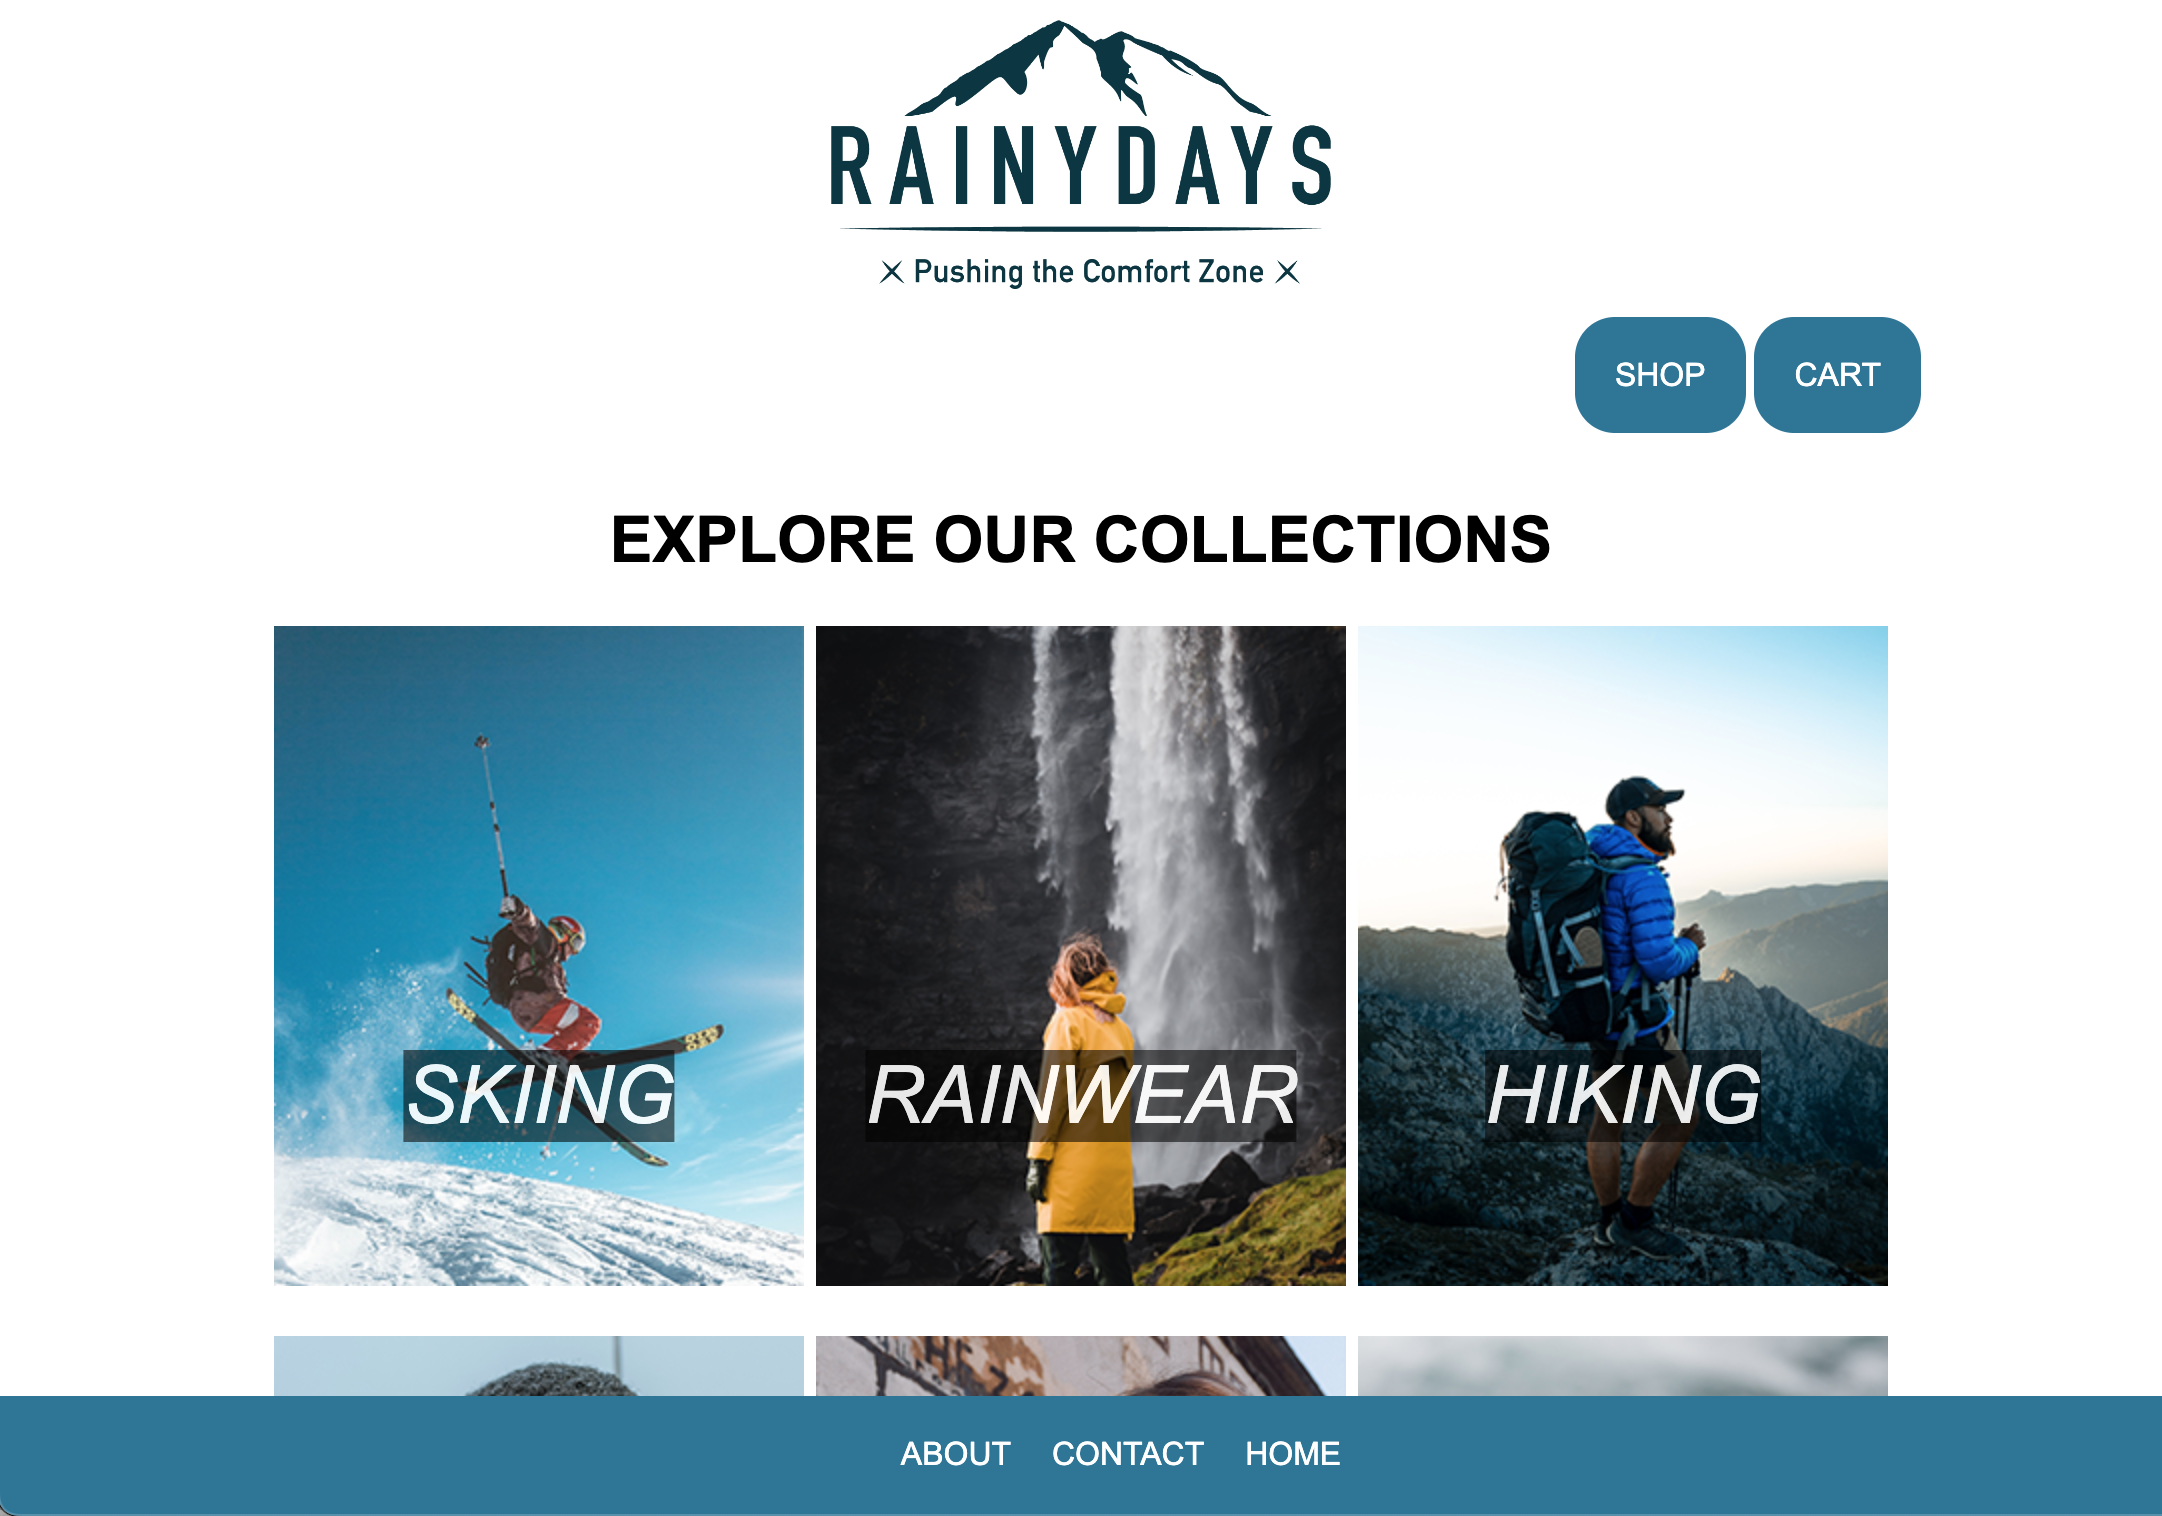
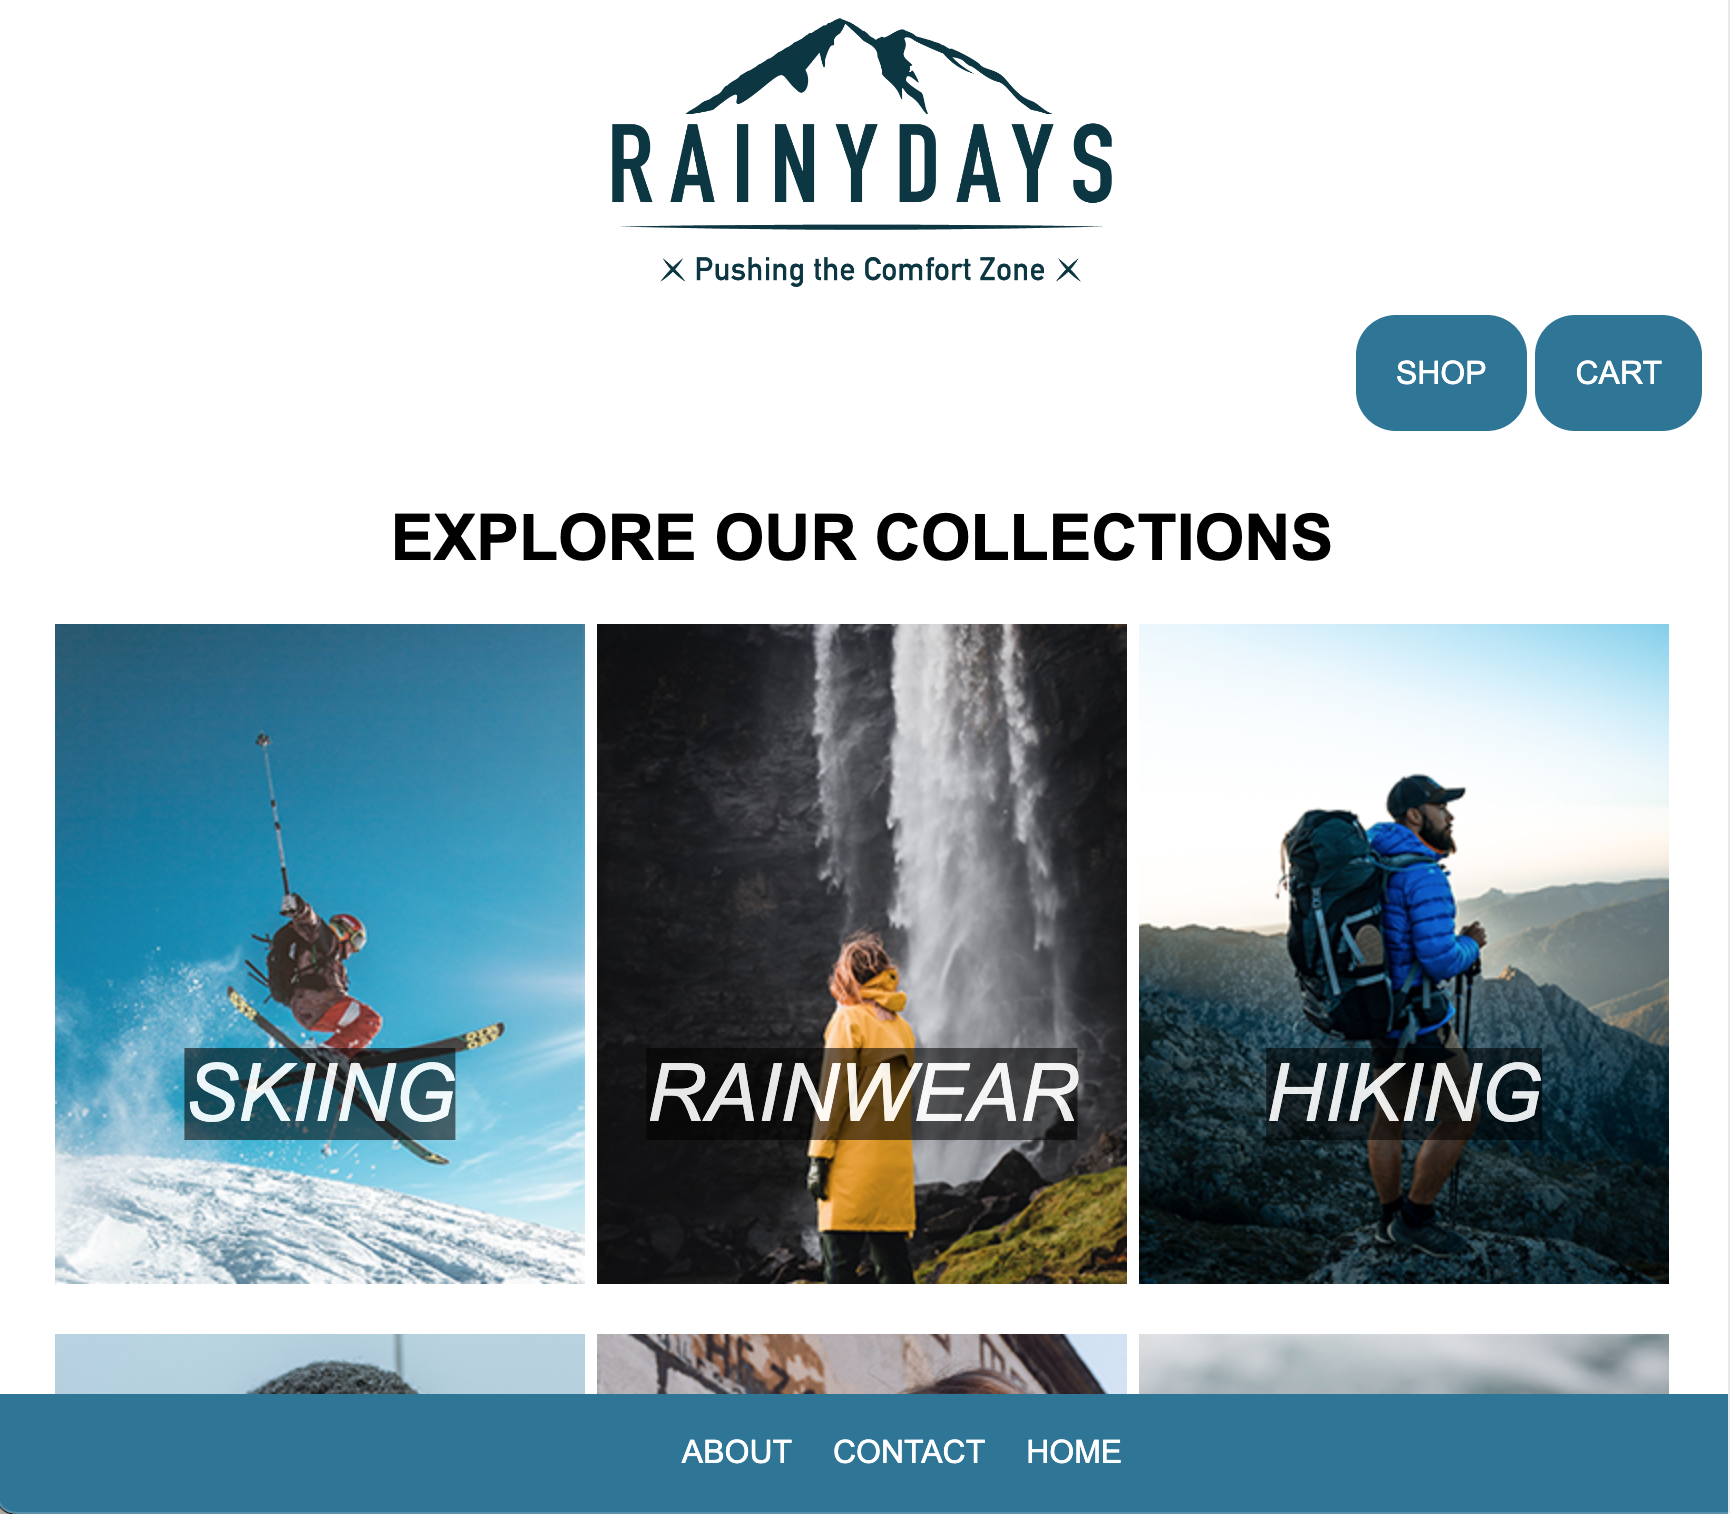
added grid, margin, padding etc

diff --git a/index.html b/index.html
@@ -9,76 +9,93 @@
     <script src="scripts/hamburger_menu.js" defer></script>
   </head>
   <body>
-
     <header>
       <div class="logoHeader">
         <a href="index.html">
-            <h1 class="logo">ONESDESIGN</h1>
+          <h1 class="logo">ONESDESIGN</h1>
         </a>
-      </div>  
-        <nav>
-          <ul class="navList">
-            <li><a href="projects.html"></a>PROJECTS</li>
-            <li><a href="about.html"></a>ABOUT</li>
-            <li><a href="contact.html"></a>CONTACT</li>
-          </ul>
-          <div class="hamburger-menu">&#9776;</div>
-        </nav>
+      </div>
+      <nav>
+        <ul class="navList">
+          <li><a href="projects.html"></a>PROJECTS</li>
+          <li><a href="about.html"></a>ABOUT</li>
+          <li><a href="contact.html"></a>CONTACT</li>
+        </ul>
+        <div class="hamburger-menu">&#9776;</div>
+      </nav>
     </header>
 
     <main>
-      <div class="container">
+      <div class="containerIndex">
         <div class="item">
           <img class="itemImage" src="images/me.jpg" alt="profile_picture" />
         </div>
         <div class="itemLight">
           <h1 class="peachTitle">ABOUT ME</h1>
-          <p class="peachParagraph">Lorem ipsum dolor sit amet, consectetur adipiscing elit,
-            sed do eiusmod tempor incididunt ut labore et dolore magna aliqua. 
-            Ut enim ad minim veniam, quis nostrud exercitation ullamco laboris 
-            nisi ut aliquip ex ea commodo consequat. Duis aute irure dolor in 
-            reprehenderit in voluptate velit esse cillum dolore eu fugiat nulla 
-            pariatur.</p>
+          <p class="peachParagraph">
+            Lorem ipsum dolor sit amet, consectetur adipiscing elit, sed do
+            eiusmod tempor incididunt ut labore et dolore magna aliqua. Ut enim
+            ad minim veniam, quis nostrud exercitation ullamco laboris nisi ut
+            aliquip ex ea commodo consequat. Duis aute irure dolor in
+            reprehenderit in voluptate velit esse cillum dolore eu fugiat nulla
+            pariatur.
+          </p>
         </div>
       </div>
 
-      <div class="container">
+      <div class="containerIndex">
         <div class="itemDark">
           <h1 class="lightTitle">TECHNIQUES</h1>
-          <p class="lightParagraph">Lorem ipsum dolor sit amet, consectetur adipiscing elit,
-            sed do eiusmod tempor incididunt ut labore et dolore magna aliqua. 
-            Ut enim ad minim veniam, quis nostrud exercitation ullamco laboris 
-            nisi ut aliquip ex ea commodo consequat. Duis aute irure dolor in 
-            reprehenderit in voluptate velit esse cillum dolore eu fugiat nulla 
-            pariatur.</p>
+          <p class="lightParagraph">
+            Lorem ipsum dolor sit amet, consectetur adipiscing elit, sed do
+            eiusmod tempor incididunt ut labore et dolore magna aliqua. Ut enim
+            ad minim veniam, quis nostrud exercitation ullamco laboris nisi ut
+            aliquip ex ea commodo consequat. Duis aute irure dolor in
+            reprehenderit in voluptate velit esse cillum dolore eu fugiat nulla
+            pariatur.
+          </p>
         </div>
         <div class="item">
-            <img class="itemImage" src="images/techniques.jpg" alt="">
+          <img class="itemImage" src="images/techniques.jpg" alt="" />
+        </div>
       </div>
 
       <div class="featured">
-
         <div class="featuredItem">
-            <img class="featuredImage" src="images/project1.png" alt="screenshot of project1">
-            <a href="">VIEW DEMO</a>
+          <img
+            class="featuredImage"
+            src="images/project1.png"
+            alt="screenshot of project1" />
+          <div class="buttonContainer">
+            <a class="button" href="">VIEW DEMO</a>
+          </div>
         </div>
 
         <div class="featuredItem">
-            <img class="featuredImage" src="images/project2.png" alt="screenshot of project2">
-            <a href="">VIEW DEMO</a>
+          <img
+            class="featuredImage"
+            src="images/project2.png"
+            alt="screenshot of project2" />
+          <div class="buttonContainer">
+            <a class="button" href="">VIEW DEMO</a>
+          </div>
         </div>
 
         <div class="featuredItem">
-            <img class="featuredImage" src="images/project3.png" alt="screenshot of project3">
-            <a href="">VIEW DEMO</a>
+          <img
+            class="featuredImage"
+            src="images/project3.png"
+            alt="screenshot of project3" />
+          <div class="buttonContainer">
+            <a class="button" href="">VIEW DEMO</a>
+          </div>
         </div>
-
       </div>
     </main>
   </body>
 </html>
 <footer>
-    <div class="footerText">
-        <p>OnesDesign</p>
-    </div>
+  <div class="footerText">
+    <p>OnesDesign</p>
+  </div>
 </footer>

diff --git a/css/utilities.css b/css/utilities.css
@@ -33,6 +33,12 @@ header li {
     flex-wrap: wrap;
 }
 
+.li {
+    list-style: none;
+    display:inline-block;
+    padding: 10px;
+}
+
 .navList {
     display: flex;
     margin: 0;
@@ -46,12 +52,61 @@ header li {
     font-size: 20px;
     margin-right: 20px;
 }
-  
-.itemImage {
-    width: 250px;
-    height: 350px;
+
+.containerIndex {
+    display: flex;
+    max-width: 800px;
+    margin: 0 auto;
 }
+
+.itemImage {
+    width: 400px;
+    height: 400px;
+}
+
+.peachTitle {
+    text-align: center;
+}
+
+.peachParagraph {
+    text-align: left;
+}
+
+.itemLight {
+    padding: 30px;
+}
+
+.itemDark {
+    padding: 30px;
+}
+
+.lightParagraph {
+    text-align: left;
+}
+
+.featured {
+    display: flex;
+    padding: 20px;
+}
+
 .featuredImage {
-    width:300px;
-    height: 300px;
+    width:100%;
+    height: auto;
+}
+
+.featuredItem {
+    text-align: center; /* Center the contents within each featuredItem */
+    max-width: 320px;
+    padding: 20px;
+}
+
+.buttonContainer {
+    margin-top: 10px; /* Add some spacing between the image and the button */
+    max-width: 100px;
+    padding: 10px;
+}
+
+.footerText {
+    padding: 20px;
+    text-align: center;
 }

diff --git a/css/theme.css b/css/theme.css
@@ -3,6 +3,7 @@
 header {
     background: rgba(160, 133, 114, 1);
 }
+
  /* About container on index */
 .itemLight {
     background-color: rgba(255, 248, 245, 1);
@@ -18,7 +19,6 @@ header {
 .itemDark {
     background-color: rgba(160, 133, 114, 1);
 }
-
 .lightTitle {
     color: rgb(255, 255, 255);
 }
@@ -32,14 +32,26 @@ header {
 
 li {
     color: rgba(240, 205, 196, 1);
-    list-style: none;
-    display:inline-block;
-    padding: 10px;
 }
+
+.featured {
+    background-color: rgba(251, 219, 211, 1);
+}
+
+.featuredItem {
+    background-color: white;
+}
+
+.buttonContainer {
+    background-color: rgba(231, 169, 129, 1);
+}
+
+.button {
+    color: white;
+}
+
 .footerText {
     color: rgba(240, 205, 196, 1);
-    padding: 20px;
-    text-align: center;
 }
 
 footer {
